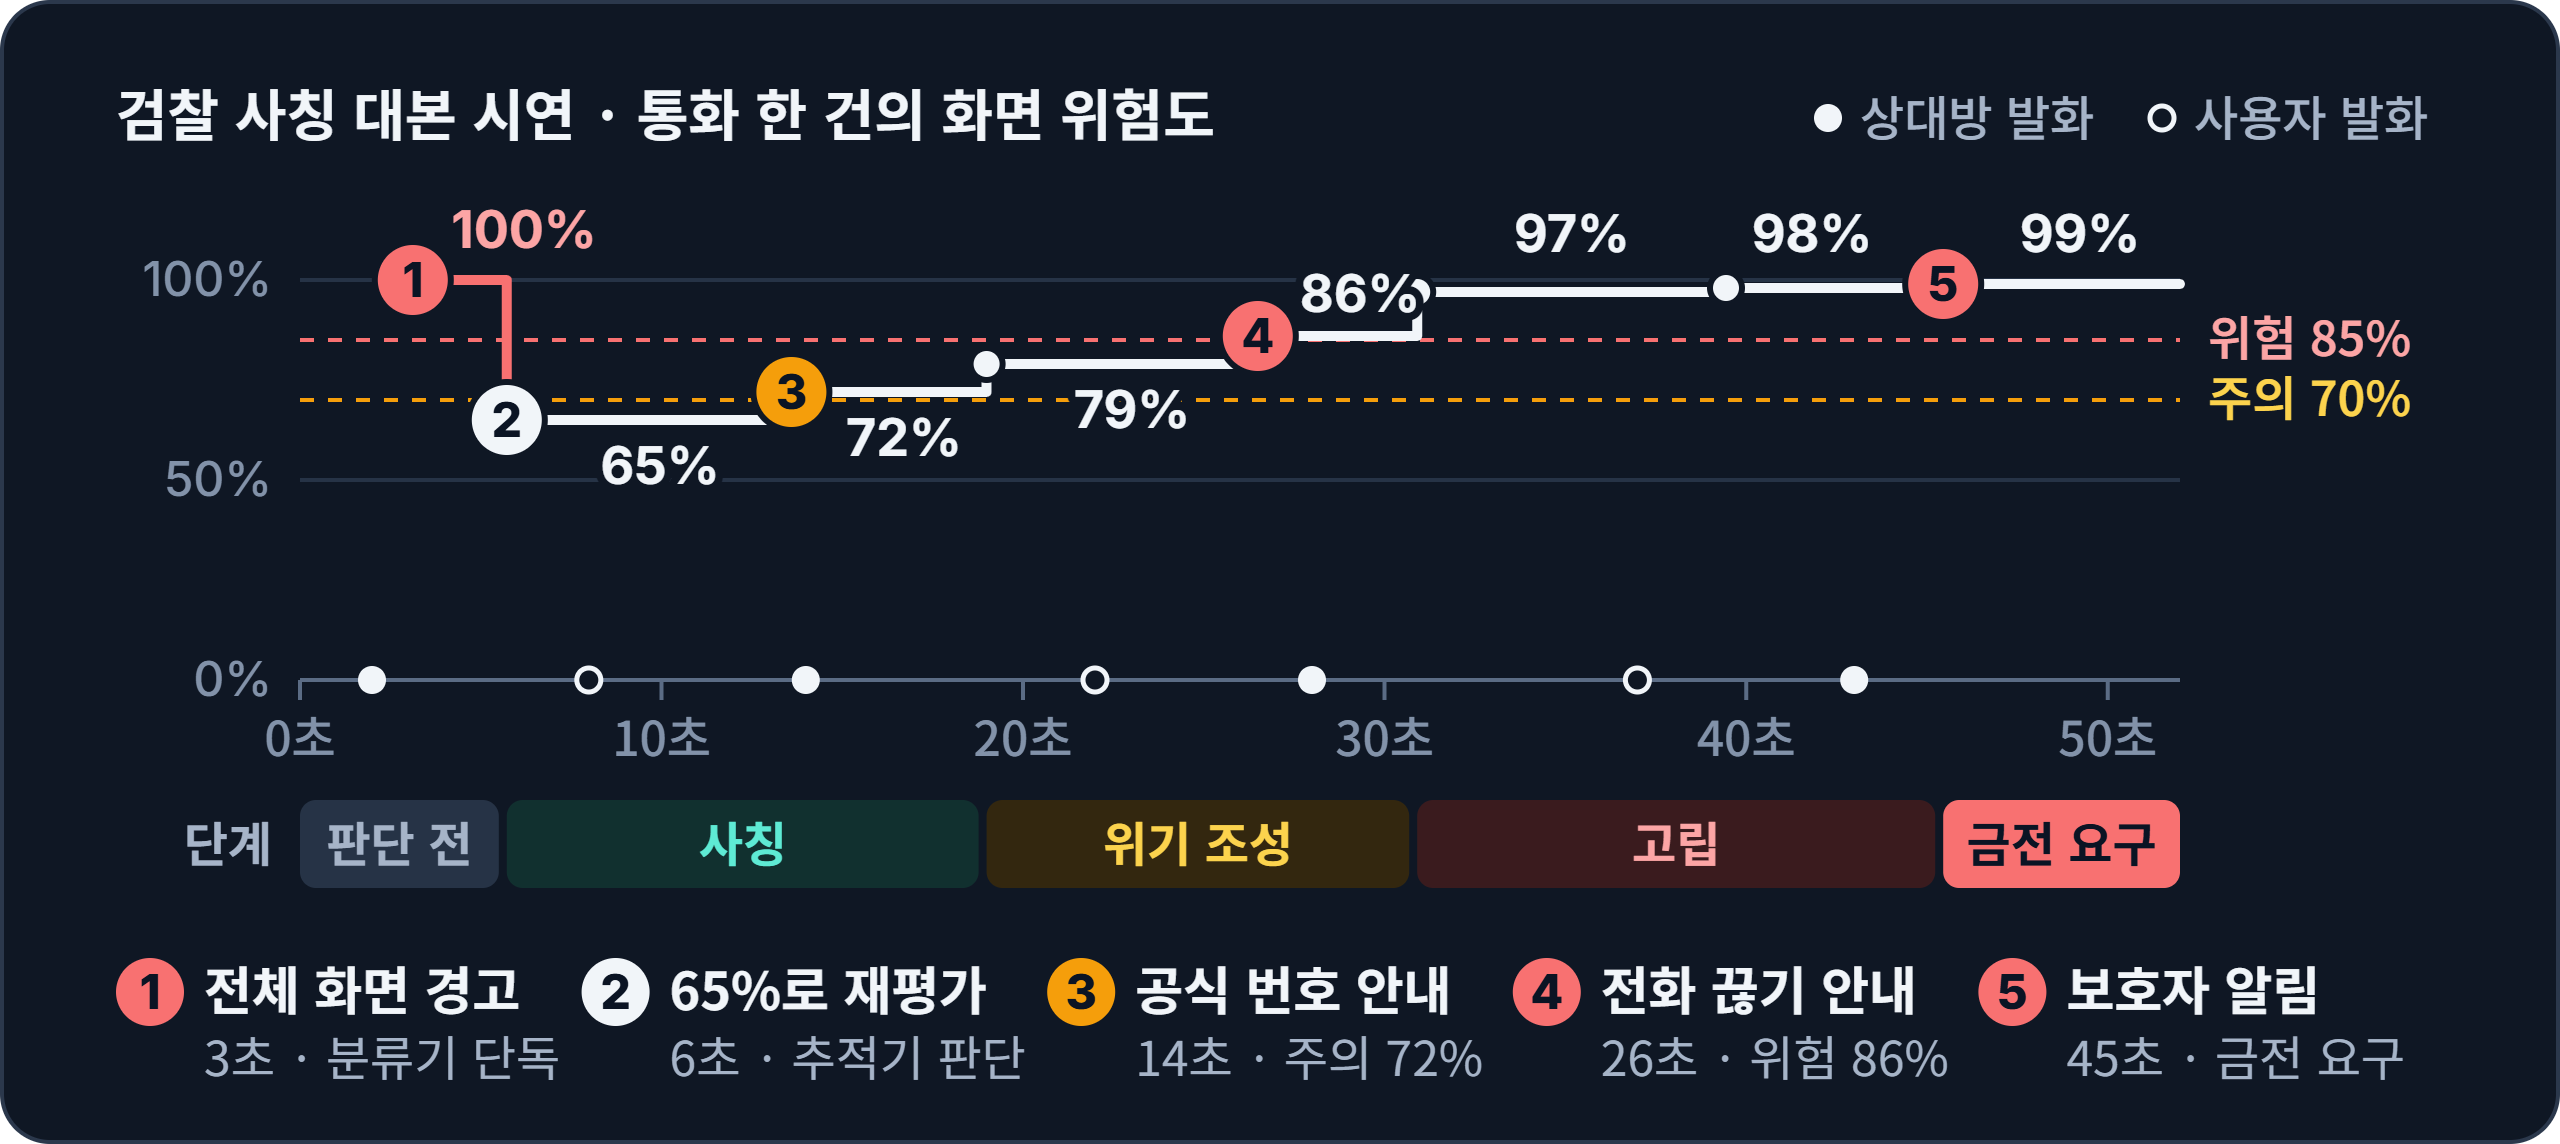
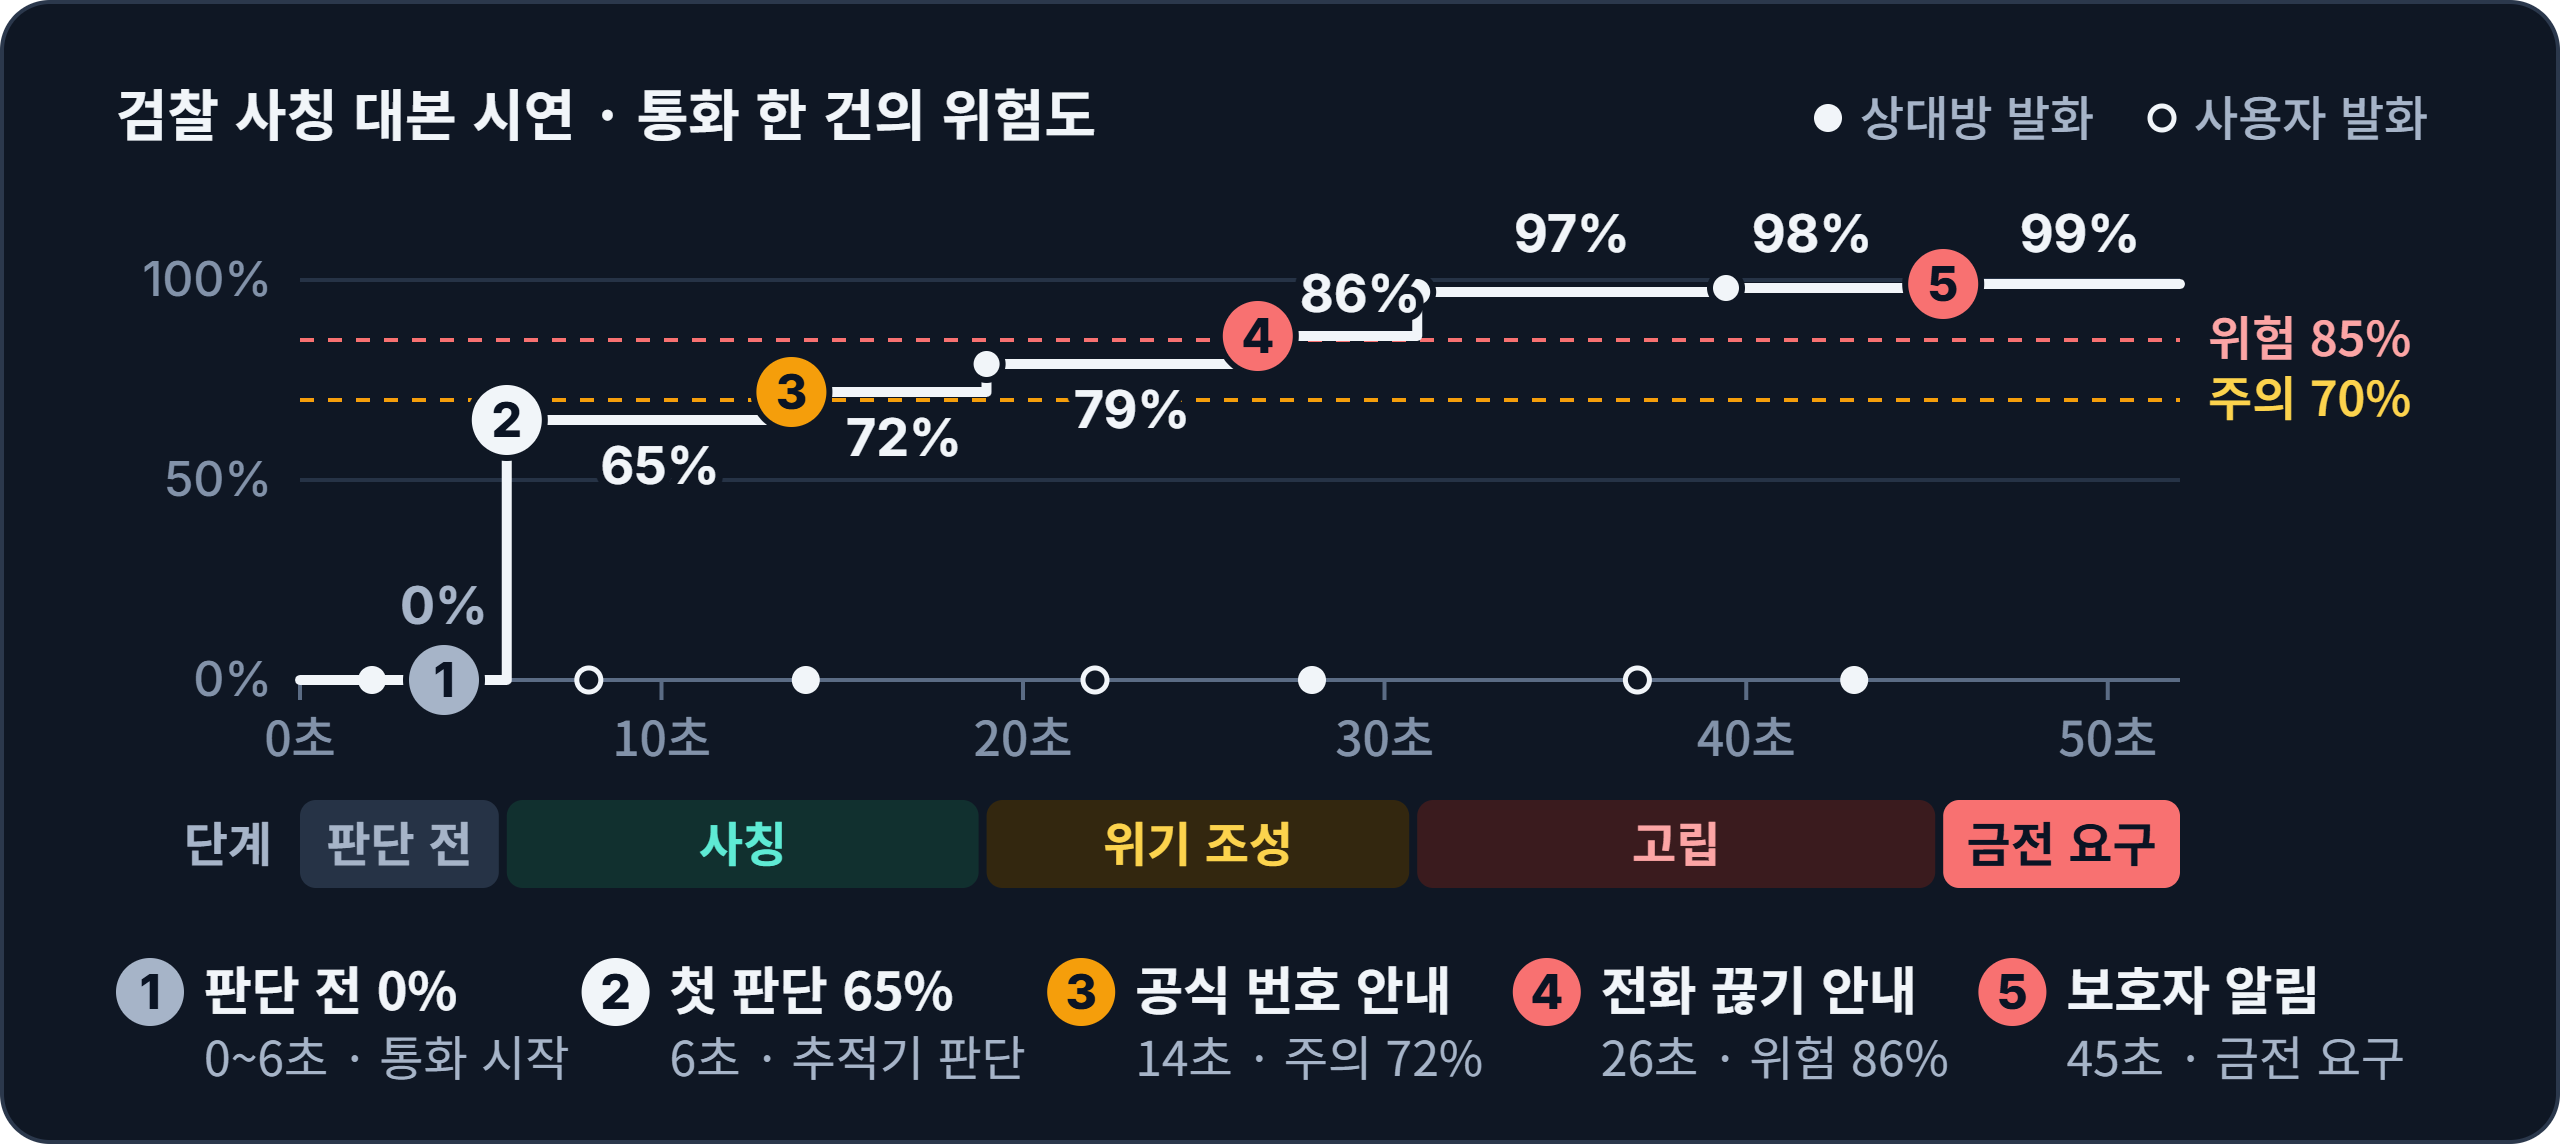
docs: 위험도 그림을 추적기 판단 기준으로 다시 그리고 팀 표에 김종헌을 추가
- README의 위험도 그림은 상태 추적기의 판단이 반영된 값만 그리고, 첫 판단 전은
  0%로 둔다. 그림 위의 안내 상자는 지우고, 그림 아래 설명에 한 문장으로 적었다.
- 통화 흐름 문서는 전체 기록 그림(timeline_record)을 그대로 쓴다.
- 기능 목록에 '대화 내용 탭'을 추가했다.

diff --git a/docs/design/README.md b/docs/design/README.md
@@ -7,7 +7,8 @@
 | `hero.svg` | `hero.webp`<br>`hero-dark.webp` | 맨 위 배너 | 휴대폰 화면(`app_realtime_agent.png`)이나 대시보드 화면(`web_priority.png`)을 교체했을 때 다시 굽습니다. 두 화면은 README 본문과 같은 현재 빌드에서 가상 데이터로 촬영한 것을 씁니다. |
 | `numbers.svg` | `numbers.png`<br>`numbers-dark.png` | 소개 바로 아래의 숫자 카드 | 숫자나 기준 모델이 바뀔 때 다시 굽습니다. 세 칸 모두 현재 모델(통화 분류기 v5)의 결과이며, 칸마다 무엇을 어떤 데이터로 잰 값인지 함께 적습니다. 분류기 단독(1·2번 칸)과 전체 시스템(3번 칸)은 이름표 색을 다르게 합니다. README의 표와 대체 문구도 함께 고칩니다. |
 | `loop.svg` | `loop.png`<br>`loop-dark.png` | '통화 한 건의 흐름'의 다섯 단계 | 단계 이름, 하는 일, 맡는 구성 요소가 바뀔 때 다시 굽습니다. README의 다섯 단계 목록과 뜻이 같아야 합니다. |
-| `timeline.svg` | `timeline.png`<br>`timeline-dark.png` | '통화 한 건의 흐름'의 위험도 추이 | 기준 시연 기록([전화 흐름으로 기능 보기](../one-call.md))을 다시 만들었을 때 다시 굽습니다. 시각과 위험도, 좌표 계산식은 원본의 주석에 있습니다. |
+| `timeline.svg` | `timeline.png`<br>`timeline-dark.png` | '통화 한 건의 흐름'의 위험도 추이 | 기준 시연 기록([전화 흐름으로 기능 보기](../one-call.md))을 다시 만들었을 때 다시 굽습니다. 상태 추적기의 판단이 반영된 위험도만 그리며, 추적기의 첫 판단이 도착하기 전은 0%로 둡니다. 시각과 위험도, 좌표 계산식은 원본의 주석에 있습니다. |
+| `timeline_record.svg` | `timeline_record.png`<br>`timeline_record-dark.png` | [전화 흐름으로 기능 보기](../one-call.md)의 화면 위험도 | 같은 시연 기록의 화면 위험도 전체입니다. 추적기의 첫 판단 전에 분류기 단독 점수로 표시된 전체 화면 경고(100%)까지 그립니다. |
 | `architecture.svg` | `architecture.png`<br>`architecture-dark.png` | '시스템 구조'의 요약 구조도 | 구성 요소나 외부로 보내는 데이터가 바뀔 때 다시 굽습니다. 자세한 구조도는 `../diagrams/architecture.html`에 따로 있습니다. |
 
 `docs/images/readme/demo_phone.gif`(휴대폰 화면)와 `demo_wide.gif`(넓은 화면)는 대본 시연을 녹화한 것으로, 이 폴더의 원본에서 만들지 않습니다. 대시보드 화면과 조각 그림은 [수사관 지원용 능동 AI 에이전트 기능](../investigator.md)에 있습니다.

diff --git a/docs/one-call.md b/docs/one-call.md
@@ -11,8 +11,8 @@
 아래 그림은 이 통화의 화면 위험도입니다. 음성 입력으로 잰 결과가 아니라, 대본을 글로 입력한 시연 1회의 기록입니다.
 
 <picture>
-  <source media="(prefers-color-scheme: dark)" srcset="images/readme/timeline-dark.png">
-  <img src="images/readme/timeline.png" width="100%" alt="이 통화의 화면 위험도. 3초에 분류기 단독 판단으로 100%가 되어 전체 화면 경고가 표시되고, 6초에 추적기 판단이 도착해 65%로 재평가된다. 14초에 72% 주의와 공식 번호 안내, 19초에 79%, 26초에 86% 위험과 '전화를 끊으세요' 안내, 31초에 97%, 39초에 98%, 45초에 99%와 보호자 알림 요청. 사기 단계는 사칭, 위기 조성, 고립, 금전 요구 순으로 진행">
+  <source media="(prefers-color-scheme: dark)" srcset="images/readme/timeline_record-dark.png">
+  <img src="images/readme/timeline_record.png" width="100%" alt="이 통화의 화면 위험도. 3초에 분류기 단독 판단으로 100%가 되어 전체 화면 경고가 표시되고, 6초에 추적기 판단이 도착해 65%로 재평가된다. 14초에 72% 주의와 공식 번호 안내, 19초에 79%, 26초에 86% 위험과 '전화를 끊으세요' 안내, 31초에 97%, 39초에 98%, 45초에 99%와 보호자 알림 요청. 사기 단계는 사칭, 위기 조성, 고립, 금전 요구 순으로 진행">
 </picture>
 
 ## 시연 조건
